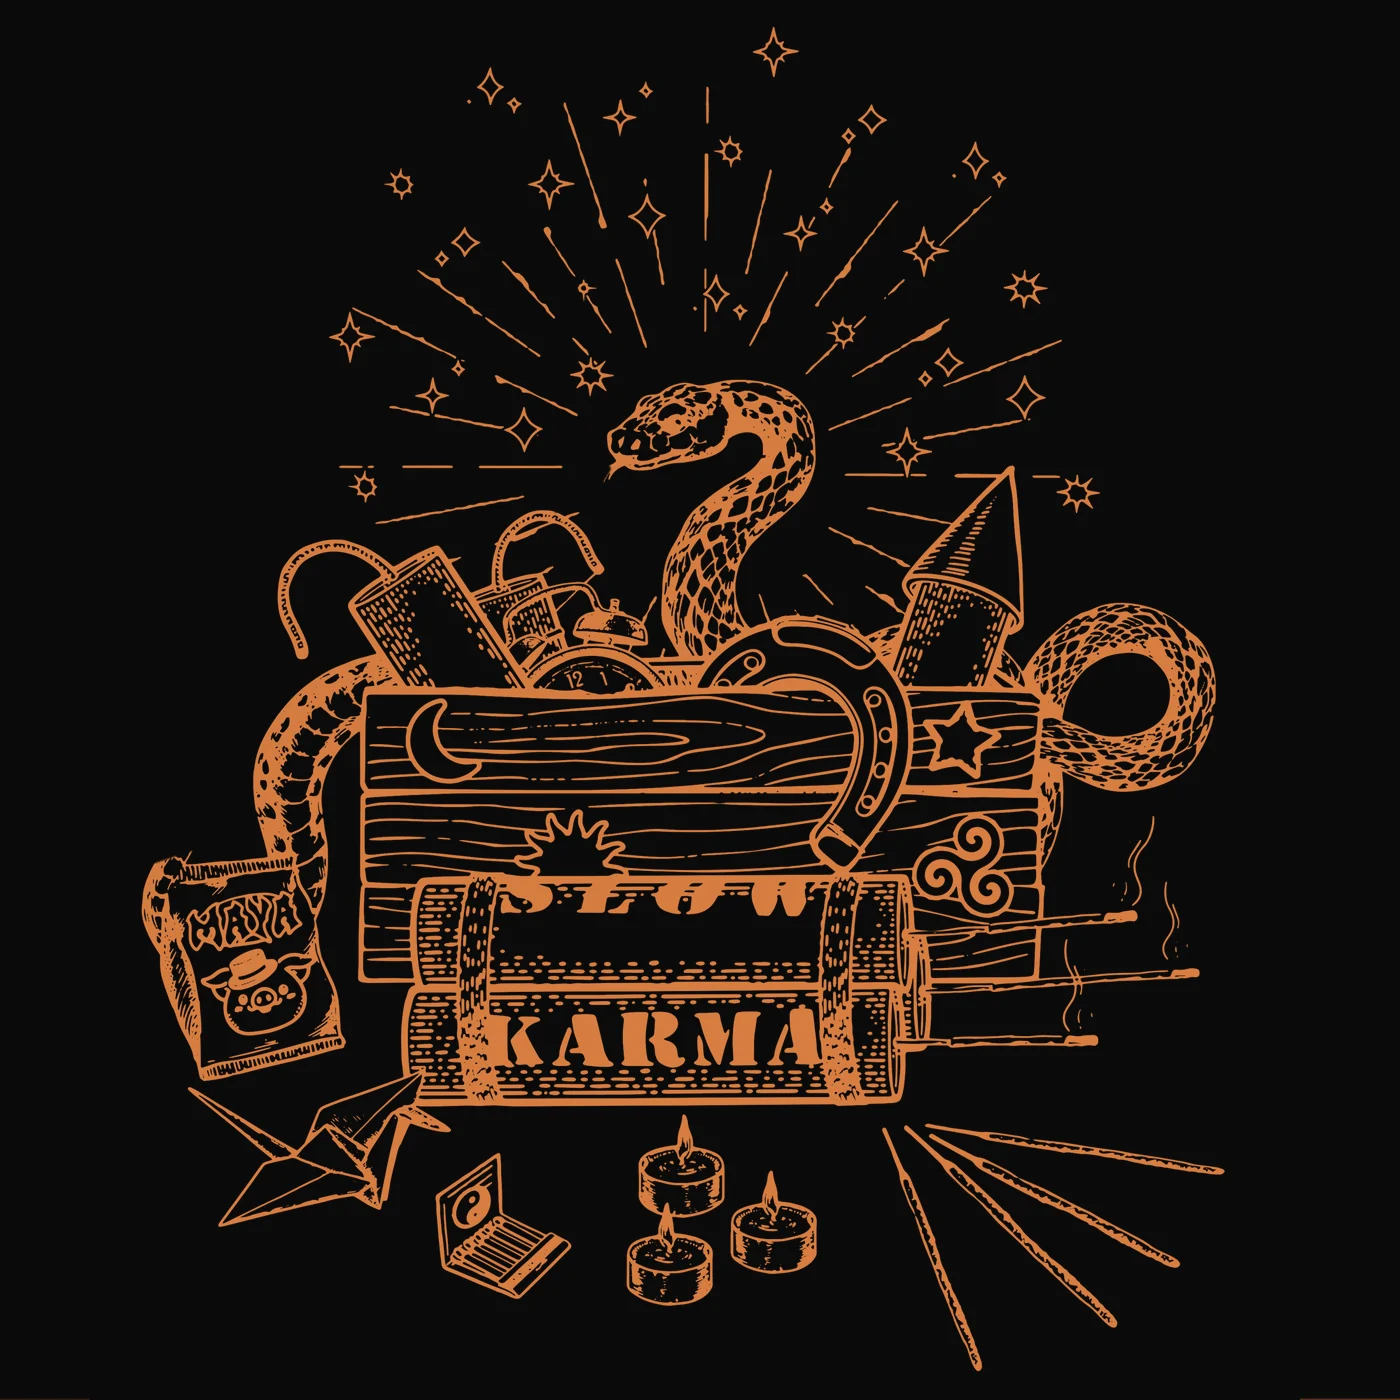
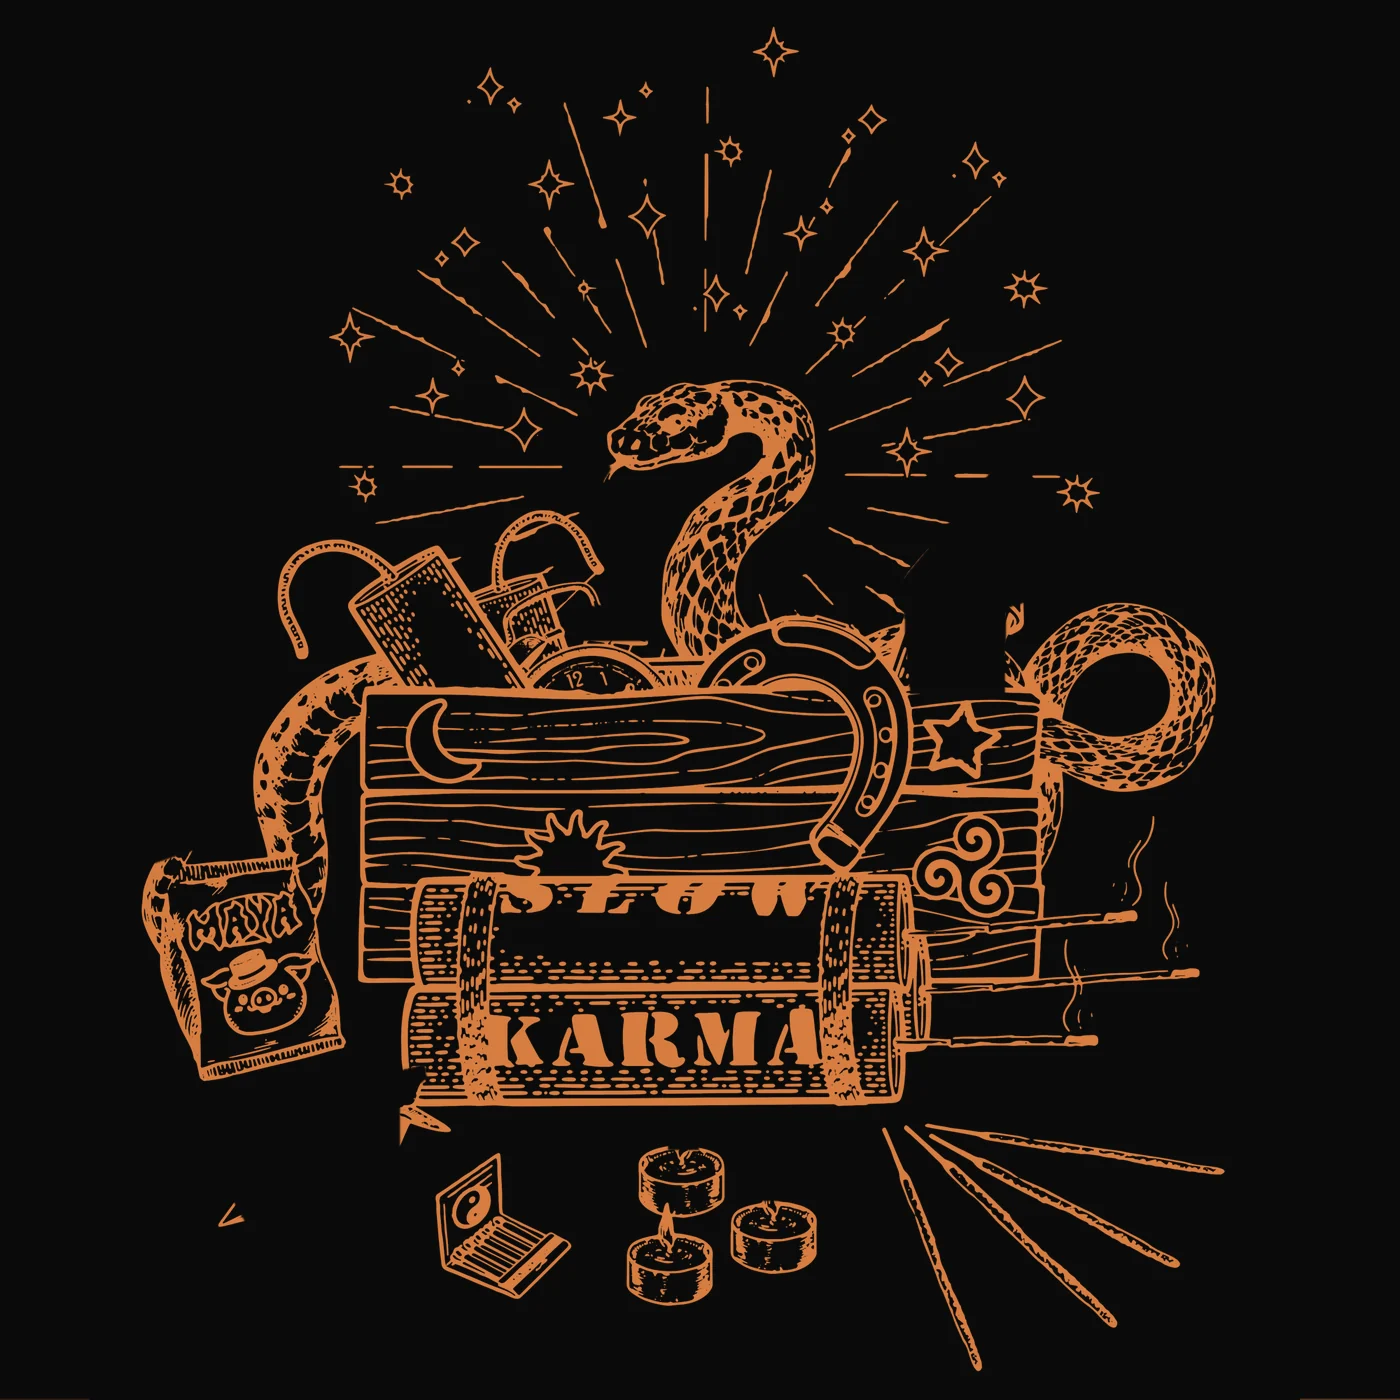
Theme v1.10: more small movements in the magic painting
- Clock bell rattles every so often, and when a fuse reaches its stick
- Rocket sways and shudders more as the fuses burn, as if about to go
- Paper crane rocks gently on the wingtip resting on the dynamite
- Candle flames stretch and lean from the wick
- The pig on the Maya packet winks now and then
- Faint star glints back (small, one star at a time)
- Incense smoke halfway between v1.8 and v1.9
- New pieces cut by tools/magic_painting.py, which now prints their CSS

Claude-Session: https://claude.ai/code/session_01XxGS2HnbJ5bye8aX79pTcZ

diff --git a/slowkarma/assets/js/main.js b/slowkarma/assets/js/main.js
@@ -146,7 +146,9 @@
 	   drives the story (stars wake, fuses catch and burn down); scroll speed
 	   drives the snake (tail flick, tongue, light sliding over its scales)
 	   and blows the incense smoke. Kept low-key on purpose (v1.9): the
-	   movement is the point, the glow is just a hint. */
+	   movement is the point, the glow is just a hint. v1.10 adds more small
+	   movements: the clock bell, the rocket, the paper crane, the candle
+	   flames and the pig's wink. */
 	(function () {
 		var root = document.querySelector('[data-magic]');
 		if (!root || reduce.matches) return;
@@ -157,6 +159,13 @@
 		var tail = root.querySelector('[data-magic-tail]');
 		var tip = root.querySelector('[data-magic-tip]');
 		var tongue = root.querySelector('[data-magic-tongue]');
+		var piece = {};
+		root.querySelectorAll('[data-magic-piece]').forEach(function (el) {
+			piece[el.getAttribute('data-magic-piece')] = el;
+		});
+		function move(name, css) {
+			if (piece[name]) piece[name].style.transform = css;
+		}
 		function load(src) {
 			var im = new Image();
 			im.decoding = 'async';
@@ -295,6 +304,9 @@
 		var t = 0, last = 0, lastY = window.scrollY, vel = 0, boost = 0;
 		var a1 = 0, v1 = 0, a2 = 0, v2 = 0;
 		var lick = -1, nextLick = 3;
+		var ring = -1, nextRing = 4;
+		var wink = -1, nextWink = 6;
+		var EYE = [283, 989];
 		var running = false;
 
 		function burst(x, y) {
@@ -350,6 +362,52 @@
 				}
 			}
 
+			/* Small lives of their own, all kept to a few degrees. */
+			var lit = Math.max(smooth(fuses[0].from, fuses[0].to, p), smooth(fuses[1].from, fuses[1].to, p));
+
+			/* Alarm clock bell: a short rattle now and then, and when a fuse goes. */
+			nextRing -= dt;
+			if (ring < 0 && awake > 0.5 && nextRing <= 0) {
+				ring = 0;
+				nextRing = rnd(7, 12);
+			}
+			if (ring >= 0) {
+				ring += dt;
+				var rk = ring / 0.7;
+				if (rk >= 1) {
+					ring = -1;
+					move('bell', '');
+				} else {
+					var amp = 2.6 * Math.sqrt(1 - rk);
+					move('bell', 'rotate(' + (Math.sin(ring * 90) * amp).toFixed(2) + 'deg) translateY(' + (-Math.abs(Math.sin(ring * 45)) * 0.06).toFixed(3) + '%)');
+				}
+			}
+
+			/* Rocket: an idle sway, and a shudder that builds as the fuses burn, as if it might go. */
+			var shake = (0.15 + 0.85 * lit) * awake;
+			move('rocket', 'translateY(' + (-shake * 0.08 * (0.5 + 0.5 * Math.sin(t * 23))).toFixed(3) + '%) rotate(' + (Math.sin(t * 1.3) * 0.35 * awake + shake * 0.55 * Math.sin(t * 29 + Math.sin(t * 5) * 2)).toFixed(2) + 'deg)');
+
+			/* Paper crane: a slow rock on the wingtip that rests on the dynamite. */
+			move('crane', 'rotate(' + ((Math.sin(t * 0.75) * 0.9 + Math.sin(t * 0.31) * 0.4) * (0.4 + 0.6 * awake) + Math.max(-1, Math.min(1, vel * 0.0006))).toFixed(2) + 'deg)');
+
+			/* Candle flames: stretch and lean from the wick. */
+			['flame1', 'flame2'].forEach(function (n, i) {
+				var a = Math.sin(t * 7.1 + i * 2) * 0.6 + Math.sin(t * 13.7 + i) * 0.4;
+				var b = Math.sin(t * 5.3 + i * 3) * 0.5 + Math.sin(t * 17.9 + i * 5) * 0.5;
+				move(n, 'skewX(' + (a * 4 * awake).toFixed(2) + 'deg) scaleY(' + (1 + b * 0.07 * awake).toFixed(3) + ')');
+			});
+
+			/* The pig on the Maya packet winks now and then. */
+			nextWink -= dt;
+			if (wink < 0 && awake > 0.5 && nextWink <= 0) {
+				wink = 0;
+				nextWink = rnd(8, 14);
+			}
+			if (wink >= 0) {
+				wink += dt;
+				if (wink > 0.6) wink = -1;
+			}
+
 			ctx.setTransform(1, 0, 0, 1, 0, 0);
 			ctx.globalCompositeOperation = 'source-over';
 			ctx.clearRect(0, 0, W, W);
@@ -360,6 +418,7 @@
 				var b = smooth(f.from, f.to, p);
 				if (b >= 0.999 && !f.done) {
 					f.done = true;
+					ring = 0;
 					var end = f.path.pts[f.path.pts.length - 1];
 					burst(end[0], end[1]);
 				} else if (b < 0.9) {
@@ -420,7 +479,7 @@
 			/* Incense smoke, pushed sideways by the scroll. */
 			if (awake > 0.05 && smoke.length < (lite ? 50 : 90)) {
 				embers.forEach(function (e) {
-					if (Math.random() < dt * 9 * awake) smoke.push({ x: e[0] + rnd(-2, 2), y: e[1] - 4, vx: rnd(-3, 3), vy: rnd(-26, -16), age: 0, life: rnd(3.5, 5.5), seed: rnd(0, 6.28) });
+					if (Math.random() < dt * 10 * awake) smoke.push({ x: e[0] + rnd(-2, 2), y: e[1] - 4, vx: rnd(-3, 3), vy: rnd(-26, -16), age: 0, life: rnd(3.5, 5.5), seed: rnd(0, 6.28) });
 				});
 			}
 			ctx.globalCompositeOperation = 'source-over';
@@ -437,7 +496,7 @@
 				m.x += m.vx * dt;
 				m.y += m.vy * dt;
 				var rad = 3 + q * 22;
-				ctx.globalAlpha = Math.min(1, m.age * 3) * (1 - q) * 0.16 * awake;
+				ctx.globalAlpha = Math.min(1, m.age * 3) * (1 - q) * 0.18 * awake;
 				ctx.drawImage(puff, (m.x - rad) * S, (m.y - rad) * S, rad * 2 * S, rad * 2 * S);
 			}
 			ctx.globalAlpha = 1;
@@ -501,8 +560,48 @@
 				ctx.globalAlpha = (0.18 + 0.1 * Math.sin(t * 2 + n * 2)) * awake;
 				ctx.drawImage(puff, (e[0] - 10) * S, (e[1] - 10) * S, 20 * S, 20 * S);
 			});
+
+			/* Star glints: a small, faint cross of light on one star at a time. */
+			ctx.lineWidth = 1.1 * S;
+			ctx.strokeStyle = 'rgb(255, 205, 150)';
+			twinkle.forEach(function (st) {
+				if (st.s < 30) return;
+				var b = Math.pow(0.5 + 0.5 * Math.sin(t * st.sp * 1.6 + st.ph + p * 6), 12) * awake;
+				if (b < 0.05) return;
+				var z = st.s * (0.45 + 0.35 * b);
+				ctx.globalAlpha = b * 0.3;
+				ctx.drawImage(puff, (st.x - z * 0.6) * S, (st.y - z * 0.6) * S, z * 1.2 * S, z * 1.2 * S);
+				ctx.globalAlpha = b * 0.45;
+				ctx.beginPath();
+				ctx.moveTo((st.x - z) * S, st.y * S);
+				ctx.lineTo((st.x + z) * S, st.y * S);
+				ctx.moveTo(st.x * S, (st.y - z) * S);
+				ctx.lineTo(st.x * S, (st.y + z) * S);
+				ctx.stroke();
+			});
 			ctx.globalAlpha = 1;
 			ctx.globalCompositeOperation = 'source-over';
+
+			/* Wink: the lid comes down over the pig's eye and back up. */
+			if (wink >= 0) {
+				var shut = Math.min(1, Math.sin(Math.PI * Math.min(1, wink / 0.6)) * 1.8);
+				ctx.fillStyle = '#0a0a0a';
+				ctx.beginPath();
+				ctx.ellipse(EYE[0] * S, EYE[1] * S, 6.5 * S, 7.5 * S, 0, 0, 6.283);
+				ctx.fill();
+				ctx.fillStyle = ctx.strokeStyle = 'rgb(221, 129, 66)';
+				if (shut < 0.75) {
+					ctx.beginPath();
+					ctx.ellipse(EYE[0] * S, (EYE[1] + 2.5 * shut) * S, 4.5 * S, Math.max(0.5, 5.5 * (1 - shut)) * S, 0, 0, 6.283);
+					ctx.fill();
+				} else {
+					ctx.lineWidth = 2.6 * S;
+					ctx.beginPath();
+					ctx.moveTo((EYE[0] - 5.5) * S, (EYE[1] + 1) * S);
+					ctx.quadraticCurveTo(EYE[0] * S, (EYE[1] + 5) * S, (EYE[0] + 5.5) * S, (EYE[1] + 1) * S);
+					ctx.stroke();
+				}
+			}
 		}
 
 		function start() {

diff --git a/slowkarma/assets/css/main.css b/slowkarma/assets/css/main.css
@@ -2769,6 +2769,60 @@ body.menu-open .menu-toggle {
 	width: 5.5%;
 }
 
+/* v1.10 pieces. Pivots: bell on its base (610, 640), rocket where it sits
+   in the crate (955, 692), crane on the wingtip resting on the dynamite
+   (414, 1078), flames at the wick. Boxes and pivots are printed by
+   tools/magic_painting.py. */
+.magic__joint--bell {
+	transform-origin: 43.571% 45.714%;
+}
+
+.magic__joint--rocket {
+	transform-origin: 68.214% 49.429%;
+}
+
+.magic__joint--crane {
+	transform-origin: 29.571% 77%;
+}
+
+.magic__joint--flame1 {
+	transform-origin: 48.786% 82.143%;
+}
+
+.magic__joint--flame2 {
+	transform-origin: 55.071% 85.786%;
+}
+
+.story-teaser__img .magic__bit--bell {
+	left: 40.714%;
+	top: 42.357%;
+	width: 6.786%;
+}
+
+.story-teaser__img .magic__bit--rocket {
+	left: 63.5%;
+	top: 33.071%;
+	width: 9.786%;
+}
+
+.story-teaser__img .magic__bit--crane {
+	left: 13.214%;
+	top: 75.929%;
+	width: 17.571%;
+}
+
+.story-teaser__img .magic__bit--flame1 {
+	left: 47.429%;
+	top: 79.429%;
+	width: 2.786%;
+}
+
+.story-teaser__img .magic__bit--flame2 {
+	left: 54.214%;
+	top: 83.429%;
+	width: 2%;
+}
+
 .magic__fx {
 	position: absolute;
 	inset: 0;

diff --git a/slowkarma/style.css b/slowkarma/style.css
@@ -3,7 +3,7 @@ Theme Name: Slow Karma
 Theme URI: https://www.slowkarma.co.uk
 Author: Slow Karma
 Description: Custom theme for Slow Karma: band home, Seasons story, videos, music and electronic press kit. Hand-built, no page builder, no jQuery.
-Version: 1.9.0
+Version: 1.10.0
 Requires at least: 6.4
 Tested up to: 6.9
 Requires PHP: 7.4

diff --git a/tools/magic_painting.py b/tools/magic_painting.py
@@ -72,8 +72,28 @@ tongue = poly_mask([(558, 474), (574, 469), (597, 461), (612, 456), (624, 463), 
 erase_tongue = poly_mask([(558, 474), (574, 469), (597, 461), (606, 458), (610, 469), (602, 482), (598, 511), (555, 512)])
 PT = (615, 465)    # tongue root
 
+
+# ---- v1.10 pieces: each is cut out of the base and moved on its own ----
+yy0, xx0 = np.mgrid[0:W, 0:W]
+def disc(cx, cy, r, feather=1.0):
+    return ndi.gaussian_filter((((xx0 - cx) ** 2 + (yy0 - cy) ** 2) < r * r).astype(float), feather)
+
+PIECES = {
+    # alarm clock bell and its clapper; rattles about the middle of its base
+    'bell': (poly_mask([(571, 640), (571, 618), (590, 606), (604, 604), (606, 597), (624, 597), (628, 608), (640, 612), (644, 596), (652, 590), (660, 594), (652, 640)]), (610, 640)),
+    # the rocket on the right; shudders about the point where it sits in the crate
+    'rocket': (poly_mask([(893, 590), (1009, 449), (1024, 456), (1024, 602), (1005, 608), (1004, 693), (910, 693), (904, 612), (893, 600)]), (955, 692)),
+    # paper crane; rocks about its right wingtip, which rests on the dynamite
+    'crane': (poly_mask([(178, 1078), (300, 1098), (392, 1072), (424, 1064), (426, 1078), (399, 1098), (398, 1206), (382, 1218), (250, 1230), (176, 1100)]), (414, 1078)),
+    # candle flames; flicker from the wick
+    'flame1': (poly_mask([(669, 1108), (697, 1108), (698, 1149), (668, 1149)]), (683, 1150)),
+    'flame2': (poly_mask([(757, 1166), (784, 1166), (785, 1200), (756, 1200)]), (771, 1201)),
+}
+
 # ---- base ----
 base_a = A * (1 - erase_tip) * (1 - erase_tongue)
+for _m, _pv in PIECES.values():
+    base_a = base_a * (1 - _m)
 rgb = BG + base_a[..., None] * (ORANGE - BG)
 base = Image.fromarray(np.clip(rgb + 0.5, 0, 255).astype(np.uint8))
 base.save(OUT + 'dynamite-live-1400.webp', quality=86, method=6)
@@ -94,6 +114,14 @@ def save_layer(name, m, pivots):
 save_layer('tip1', seg1, [P1])
 save_layer('tip2', seg2, [P2])
 save_layer('tongue', tongue, [PT])
+for _n, (_m, _pv) in PIECES.items():
+    save_layer(_n, _m, [_pv])
+
+# CSS for every moving piece (paste into assets/css/main.css if anything changes)
+for _n, _l in layers.items():
+    x0, y0, x1, y1 = _l['box']
+    print('.story-teaser__img .magic__bit--%s { left: %.3f%%; top: %.3f%%; width: %.3f%%; }' % (_n, x0 / 14, y0 / 14, (x1 - x0) / 14))
+    print('.magic__joint--%s { transform-origin: %.3f%% %.3f%%; }' % (_n, _l['pivots'][0][0] / 14, _l['pivots'][0][1] / 14))
 
 # ---- light mask: linework that can glow (rays, stars, candle flames, incense embers) ----
 yy, xx = np.mgrid[0:W, 0:W]
@@ -126,4 +154,3 @@ skin = A * skin_zone * (1 - erase_tip) * (1 - erase_tongue) * (1 - fuse_zone)
 sm = Image.fromarray(np.clip(skin * 255, 0, 255).astype(np.uint8)).resize((700, 700), Image.LANCZOS)
 Image.merge('RGBA', [Image.new('L', (700, 700), 255)] * 3 + [sm]).save(OUT + 'magic-skin.webp', lossless=True, method=6)
 
-print(json.dumps(layers))

diff --git a/slowkarma/front-page.php b/slowkarma/front-page.php
@@ -85,7 +85,7 @@ $sk_twin     = $sk_releases[0];
 			<figure class="gilt" data-gilt>
 				<div class="gilt__frame">
 					<div class="gilt__mat">
-						<?php // The magic painting: the artwork with the snake's tail tip and tongue cut out as moving pieces, and a canvas on top for fuses, smoke, flames and stars (assets/js/main.js). ?>
+						<?php // The magic painting: the artwork with its moving pieces cut out (tail tip, tongue, clock bell, rocket, crane, candle flames), and a canvas on top for fuses, smoke, glow, stars and the pig's wink (assets/js/main.js). ?>
 						<div class="magic" data-magic>
 							<?php echo sk_img( 'dynamite-live', 'Slow Karma artwork drawn in gold: a crate of dynamite and fireworks, a snake, a horseshoe, incense and candles', array( 'sizes' => '(min-width: 900px) 38vw, 80vw', 'class' => 'gilt__art' ) ); // phpcs:ignore ?>
 							<div class="magic__joint magic__joint--tail" data-magic-tail aria-hidden="true">
@@ -97,6 +97,11 @@ $sk_twin     = $sk_releases[0];
 							<div class="magic__joint magic__joint--tongue" data-magic-tongue aria-hidden="true">
 								<?php echo sk_img( 'magic-tongue', '', array( 'sizes' => '5vw', 'class' => 'magic__bit magic__bit--tongue' ) ); // phpcs:ignore ?>
 							</div>
+							<?php foreach ( array( 'bell', 'rocket', 'crane', 'flame1', 'flame2' ) as $sk_piece ) : ?>
+								<div class="magic__joint magic__joint--<?php echo esc_attr( $sk_piece ); ?>" data-magic-piece="<?php echo esc_attr( $sk_piece ); ?>" aria-hidden="true">
+									<?php echo sk_img( 'magic-' . $sk_piece, '', array( 'sizes' => '10vw', 'class' => 'magic__bit magic__bit--' . $sk_piece ) ); // phpcs:ignore ?>
+								</div>
+							<?php endforeach; ?>
 							<canvas class="magic__fx" data-magic-fx data-light="<?php echo esc_url( sk_asset( 'img/magic-light.webp' ) ); ?>" data-skin="<?php echo esc_url( sk_asset( 'img/magic-skin.webp' ) ); ?>" aria-hidden="true"></canvas>
 						</div>
 						<span class="gilt__glare" aria-hidden="true"></span>

diff --git a/slowkarma/functions.php b/slowkarma/functions.php
@@ -7,7 +7,7 @@
 
 defined( 'ABSPATH' ) || exit;
 
-define( 'SK_VERSION', '1.9.0' );
+define( 'SK_VERSION', '1.10.0' );
 
 require get_template_directory() . '/inc/data.php';
 require get_template_directory() . '/inc/helpers.php';

diff --git a/README.md b/README.md
@@ -28,7 +28,7 @@ Almost everything lives in **`slowkarma/inc/data.php`**:
 
 Page headers use `sk_page_hero()` (title plus three drifting photo columns) and galleries use `sk_reel()` (a row of photos that slides sideways as you scroll), both in `inc/helpers.php`. Images are WebP in `assets/img/` named `<slug>-<width>.webp`; the theme builds `srcset` automatically from whatever widths exist. Knockout headings use `<slug>-ko.webp` when present (the photo with its shadows lifted to orange).
 
-The Dynamite artwork on the homepage is a "magic painting" that comes alive as you scroll past it: the stars twinkle and light runs out along the rays, the two fuses catch and burn down to the sticks (scrolling back un-burns them), the incense smokes and the smoke bends with the scroll, the candles flicker, the snake's tail flicks when the page moves, its tongue tastes the air and a soft sheen slides along its scales (faster while you scroll). The glow is kept low so the movement leads. The tail tip and tongue are separate images cut from the artwork (`magic-*.webp`, with `magic-light` and `magic-skin` as masks for what may glow), the rest is drawn on a canvas in `assets/js/main.js`. To rebuild those images from the original drawing, run `python3 tools/magic_painting.py`. Visitors with reduced motion turned on see the still artwork.
+The Dynamite artwork on the homepage is a "magic painting" that comes alive as you scroll past it: the stars twinkle and light runs out along the rays, the two fuses catch and burn down to the sticks (scrolling back un-burns them), the incense smokes and the smoke bends with the scroll, the candles flicker, the snake's tail flicks when the page moves, its tongue tastes the air and a soft sheen slides along its scales (faster while you scroll). The clock bell rattles now and then, the rocket sways and shudders more as the fuses burn, the paper crane rocks on its wingtip, the candle flames stretch and lean, and the pig on the Maya packet winks. The glow is kept low so the movement leads. The tail tip and tongue are separate images cut from the artwork (`magic-*.webp`, with `magic-light` and `magic-skin` as masks for what may glow), the rest is drawn on a canvas in `assets/js/main.js`. To rebuild those images from the original drawing, run `python3 tools/magic_painting.py`. Visitors with reduced motion turned on see the still artwork.
 
 ## Performance and SEO
 
